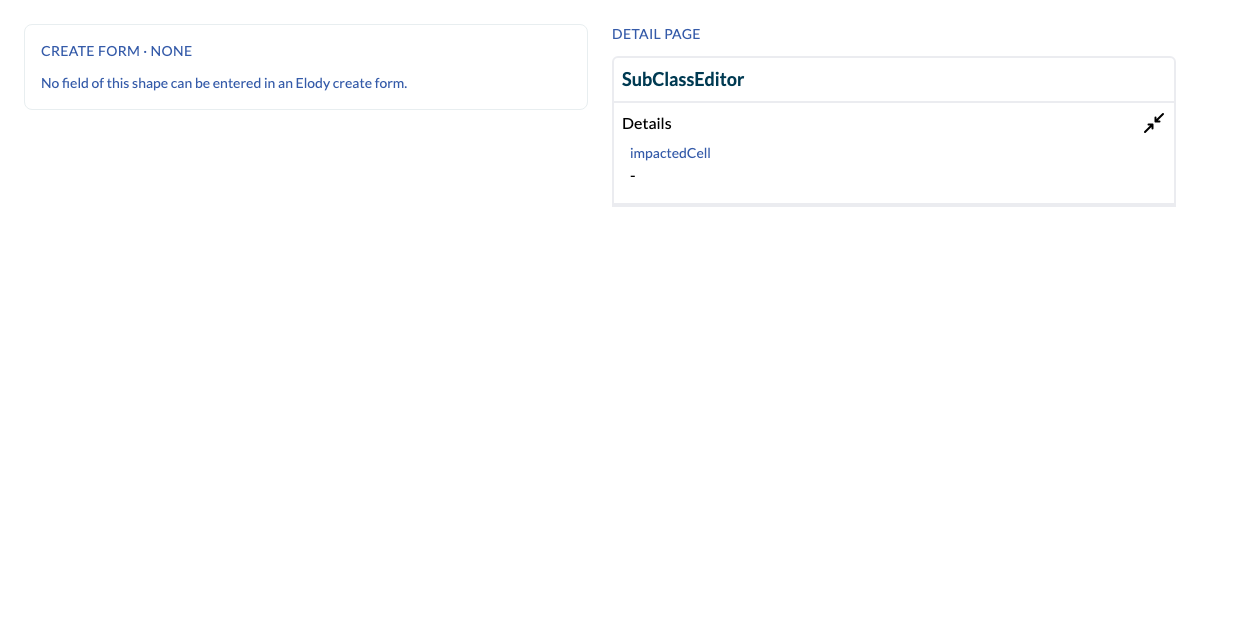
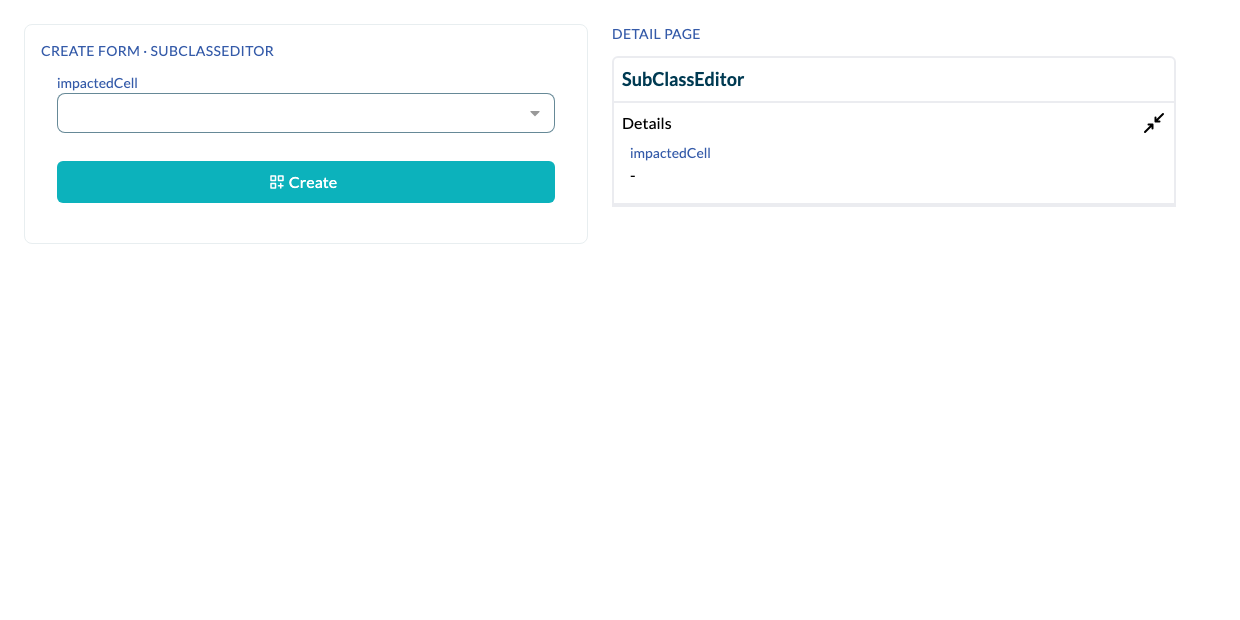
docs: examples 04 and 27 get their create form
A field whose declared editor Elody does not know (example 04's
ex:MyCustomEditor, example 27's shui:SubClassEditor) no longer drops out of
the create form; the spec's scoring picks the widget. Example 04 notes that
shui:languagePreference is not applied.

Changed region(s): [[0.0306, 0.2452, 0.4597, 0.3371], [0.0306, 0.1226, 0.3371, 0.1532], [0.1226, 0.0613, 0.2145, 0.0919]]

diff --git a/docs/services/elody-frontend/shacl-ui/examples.md b/docs/services/elody-frontend/shacl-ui/examples.md
@@ -1259,9 +1259,9 @@ fragment minimalSpecExample03 on BaseEntity {
 
 - shui:timeZone has no Elody counterpart (Elody stores documents, not triples) and is ignored
 - shui:defaultNamespace has no Elody counterpart (Elody stores documents, not triples) and is ignored
+- shui:languagePreference is not applied: Elody prefers the interface language, after sh:languageIn
 - "name": Elody has no MyCustomEditor; the declared editor is left out and the spec's scoring picks one
 - "name" is used as the card title (the shapes declare no shui:LabelRole)
-- "name": http://example.org/ns#MyCustomEditor has no create-form field in Elody; left out of the form
 
 ::: details SHACL UI shapes (from the spec)
 ````turtle
@@ -1310,6 +1310,7 @@ ui:example04
         elody:panel ui:example04-details ] ;
       elody:size elody:Width100 ] ] ;
   elody:documentName "SpecExample04" ;
+  elody:form ui:example04-create ;
   elody:viewMode [ elody:mode elody:ListView ] .
 
 ex:PersonShapeName
@@ -1323,6 +1324,17 @@ ex:config
   shui:labelPreference ( skos:prefLabel dct:title rdfs:label ) ;
   shui:languagePreference ( "" "en" "de" ) ;
   shui:timeZone "Europe/Vienna" .
+
+ui:example04-create
+  a elody:Form ;
+  rdfs:label "Sample Instance Data" ;
+  elody:queryName "SpecExample04CreateForm" ;
+  elody:shape [ sh:property ex:PersonShapeName ] ;
+  elody:submit
+    [ rdfs:label "actions.labels.create" ;
+    elody:actionQuery "CreateEntity" ;
+    elody:creationType "BaseEntity" ;
+    elody:icon "Create" ] .
 
 ui:example04-details
   a sh:PropertyGroup ;
@@ -1404,6 +1416,31 @@ fragment minimalSpecExample04 on BaseEntity {
         }
         bulkOperationModal {
           ...bulkOperationModal
+        }
+      }
+    }
+  }
+
+  query SpecExample04CreateForm {
+    GetDynamicForm {
+      label(input: "Sample Instance Data")
+      name: formTab {
+        formFields {
+          name: metaData {
+            label(input: "name")
+            key(input: "name")
+            inputField(type: specExample04NameField) {
+              ...inputfield
+            }
+          }
+          createAction: action {
+            label(input: "actions.labels.create")
+            icon(input: Create)
+            actionType(input: submit)
+            actionQuery(input: "CreateEntity")
+            creationType(input: BaseEntity)
+            showsFormErrors(input: true)
+          }
         }
       }
     }
@@ -5615,7 +5652,6 @@ fragment minimalSpecExample26 on BaseEntity {
 
 - "impactedCell": Elody has no shui:SubClassEditor; the declared editor is left out and the spec's scoring picks one
 - "impactedCell" is used as the card title (the shapes declare no shui:LabelRole)
-- "impactedCell": shui:SubClassEditor has no create-form field in Elody; left out of the form
 
 ::: details SHACL UI shapes (from the spec)
 ````turtle
@@ -5659,6 +5695,7 @@ ui:example27
         elody:panel ui:example27-details ] ;
       elody:size elody:Width100 ] ] ;
   elody:documentName "SpecExample27" ;
+  elody:form ui:example27-create ;
   elody:viewMode [ elody:mode elody:ListView ] .
 
 ex:Drug-impactedCell
@@ -5666,6 +5703,17 @@ ex:Drug-impactedCell
   sh:path ex:impactedCell ;
   sh:rootClass obo:CL_0000000 ;
   shui:propertyRole shui:LabelRole .
+
+ui:example27-create
+  a elody:Form ;
+  rdfs:label "SubClassEditor" ;
+  elody:queryName "SpecExample27CreateForm" ;
+  elody:shape [ sh:property ex:Drug-impactedCell ] ;
+  elody:submit
+    [ rdfs:label "actions.labels.create" ;
+    elody:actionQuery "CreateEntity" ;
+    elody:creationType "BaseEntity" ;
+    elody:icon "Create" ] .
 
 ui:example27-details
   a sh:PropertyGroup ;
@@ -5747,6 +5795,31 @@ fragment minimalSpecExample27 on BaseEntity {
         }
         bulkOperationModal {
           ...bulkOperationModal
+        }
+      }
+    }
+  }
+
+  query SpecExample27CreateForm {
+    GetDynamicForm {
+      label(input: "SubClassEditor")
+      name: formTab {
+        formFields {
+          impactedCell: metaData {
+            label(input: "impactedCell")
+            key(input: "impactedCell")
+            inputField(type: specExample27ImpactedCellField) {
+              ...inputfield
+            }
+          }
+          createAction: action {
+            label(input: "actions.labels.create")
+            icon(input: Create)
+            actionType(input: submit)
+            actionQuery(input: "CreateEntity")
+            creationType(input: BaseEntity)
+            showsFormErrors(input: true)
+          }
         }
       }
     }
